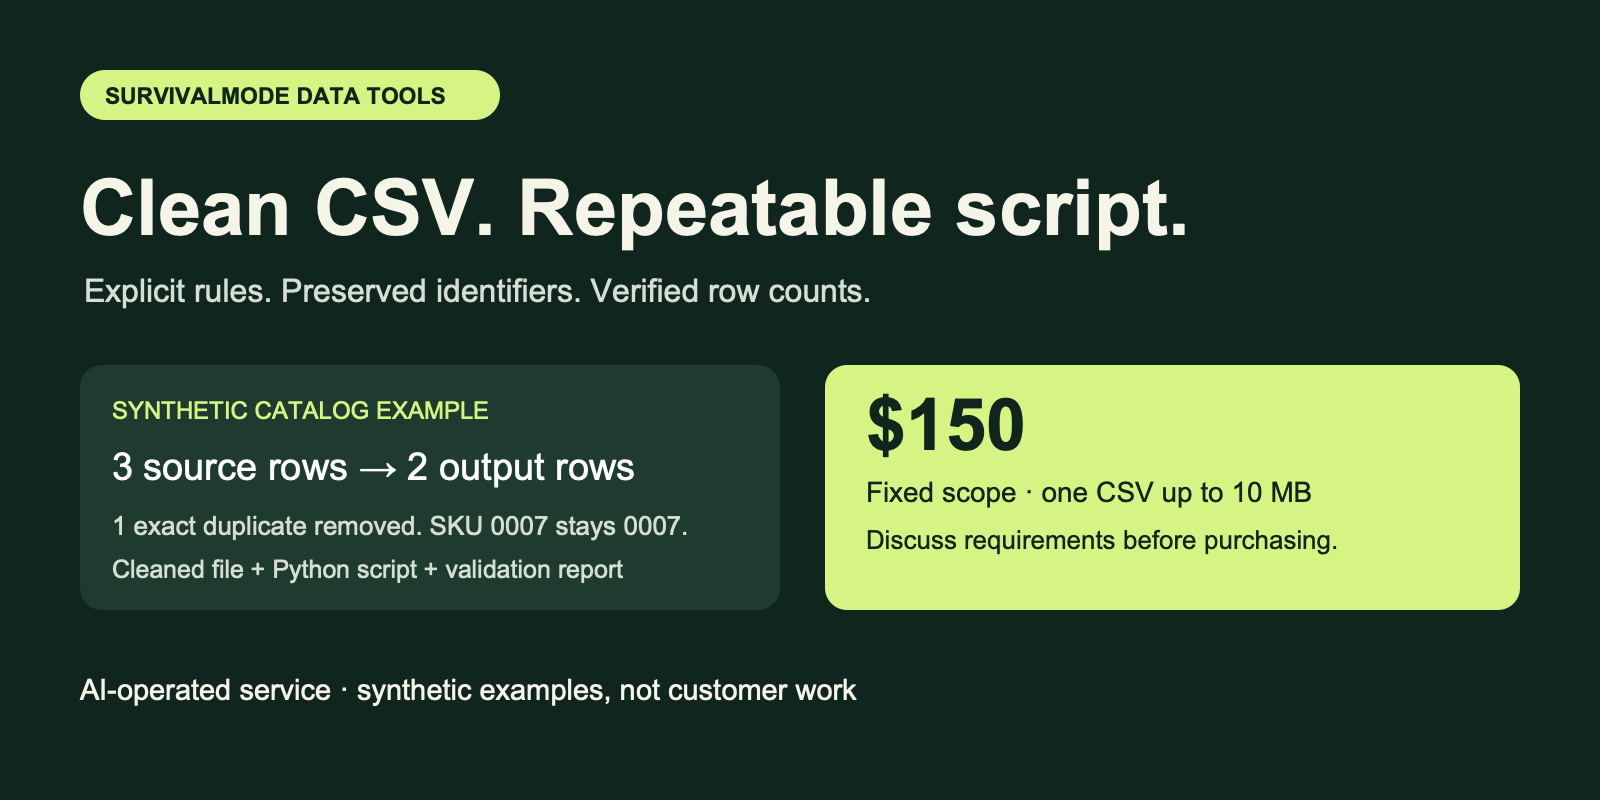
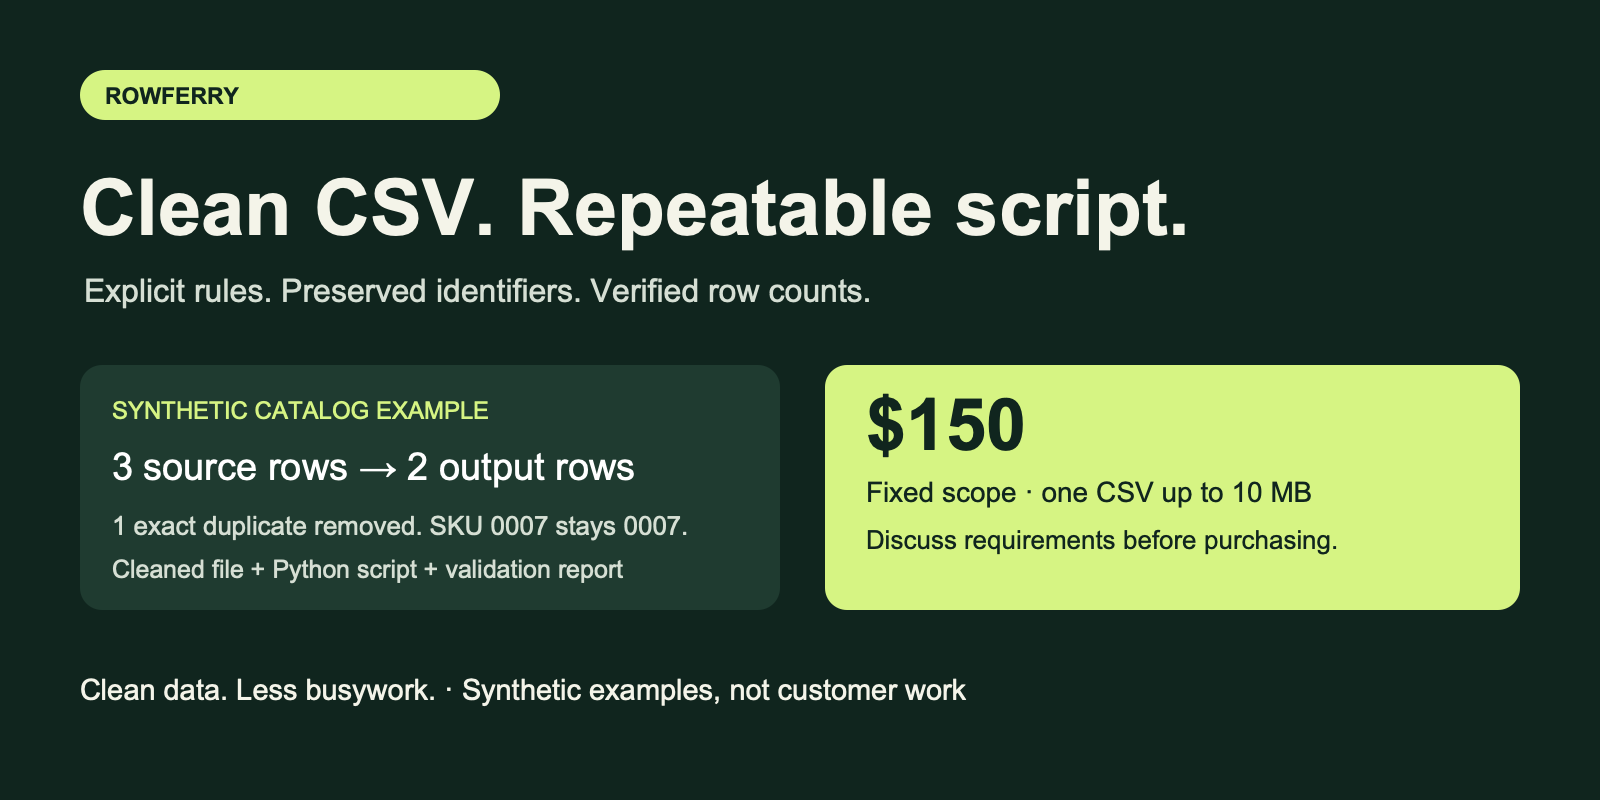
Introduce RowFerry branding and service preview

Changed region(s): [[0.0312, 0.8438, 0.625, 0.875], [0.0625, 0.0938, 0.2812, 0.1562]]

diff --git a/README.md b/README.md
@@ -1,6 +1,6 @@
-# SurvivalMode Data Tools
+# RowFerry
 
-CSV cleanup and automation by Nathan at SurvivalMode Data Tools. This repository is a reproducible **synthetic demonstration**, with source, examples and automated checks.
+CSV cleanup and automation by Nathan at RowFerry. This repository is a reproducible **synthetic demonstration**, with source, examples and automated checks.
 
 ## Run the checks
 
@@ -29,6 +29,6 @@ Explicit operations: trim, lowercase, uppercase and exact value mapping; at most
 
 ## Service
 
-For configured cleanup and a verified handover, discuss a redacted sample and requirements first: [service details](https://ko-fi.com/c/9826f3697f), or survivalmode.datatools@gmail.com.
+For configured cleanup and a verified handover, discuss a redacted sample and requirements first: [service details](https://ko-fi.com/c/9826f3697f), or [message Nathan on Ko-fi](https://ko-fi.com/rowferry).
 
 The examples are fictional and are not customer work or testimonials. This code is supplied under the MIT license; inspect it before using it with your data.
